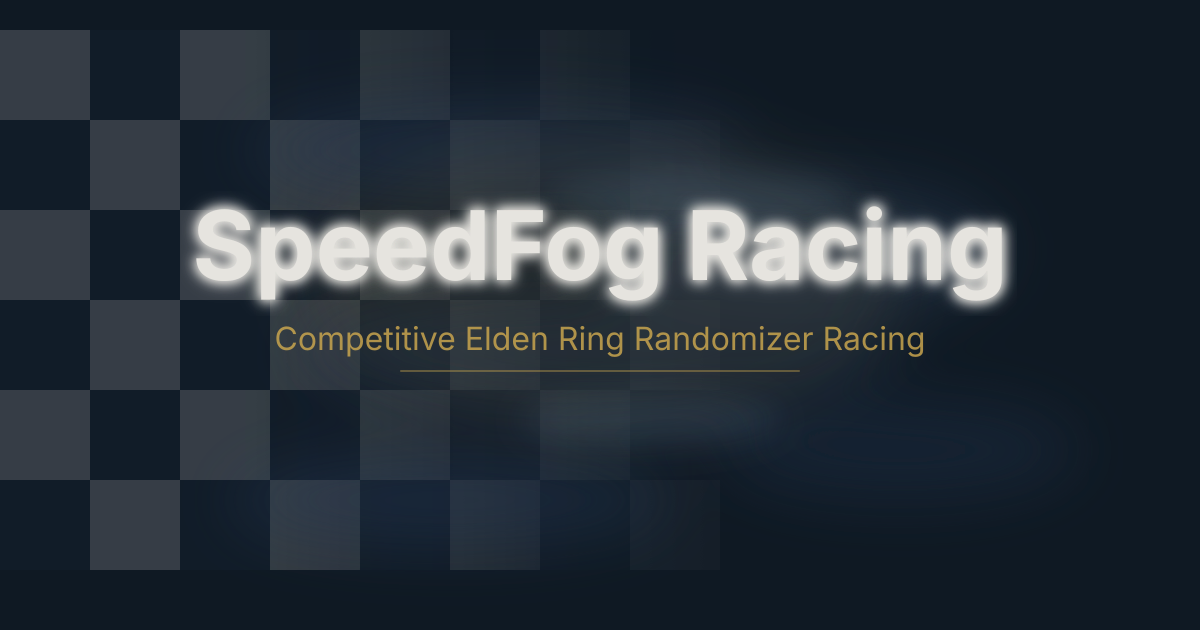
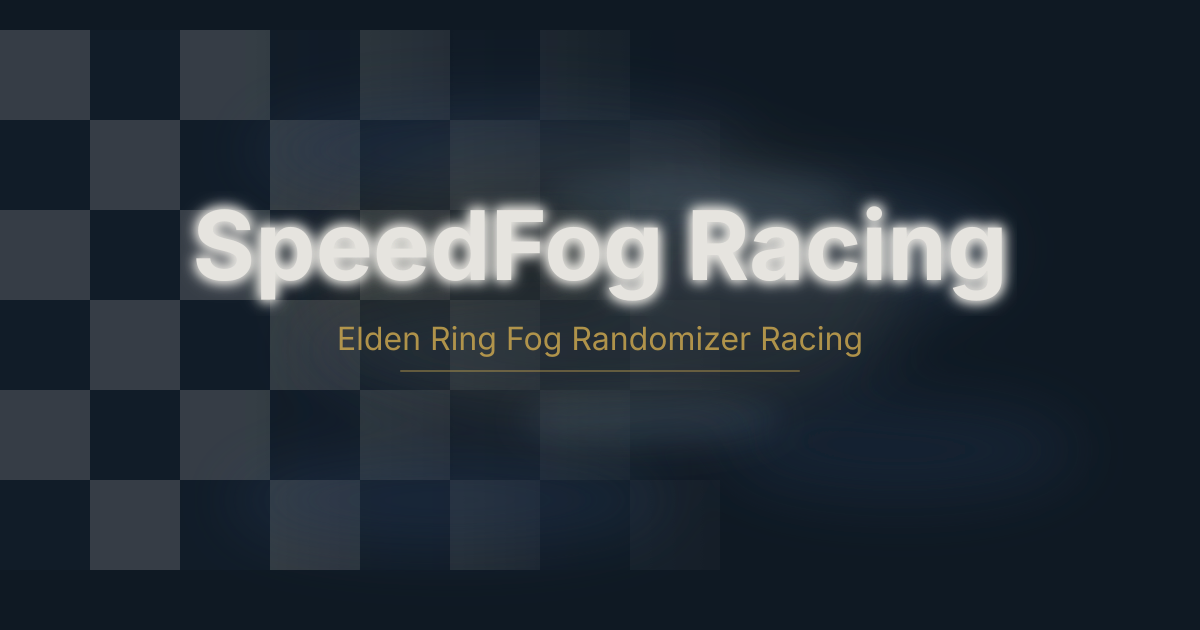
fix: update OG subtitle to mention fog randomizer

Changed region(s): [[0.2158, 0.5127, 0.7708, 0.573]]

diff --git a/web/src/app.html b/web/src/app.html
@@ -14,7 +14,7 @@
 		<meta property="og:title" content="SpeedFog Racing" />
 		<meta
 			property="og:description"
-			content="Competitive Elden Ring Randomizer Racing"
+			content="Elden Ring Fog Randomizer Racing"
 		/>
 		<meta property="og:image" content="/og-image.png" />
 		<meta property="og:type" content="website" />
